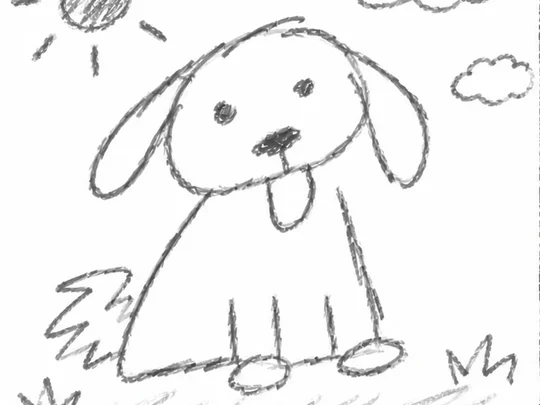
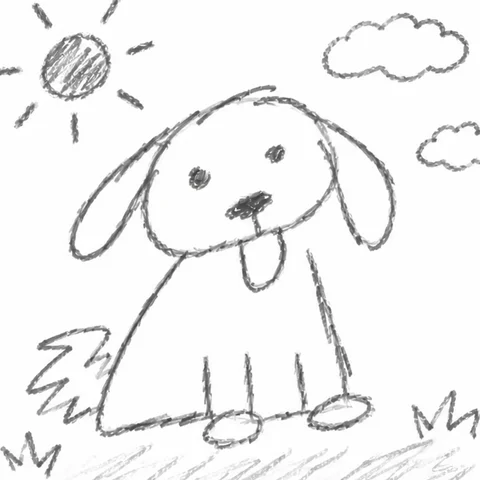
Robust-to card: square pictures with the tag on top, provided cat and car, larger heads, crossfade

diff --git a/index.html b/index.html
@@ -18,7 +18,7 @@
 <link rel="icon" href="assets/img/favicon.svg" type="image/svg+xml">
 <link rel="apple-touch-icon" href="assets/img/apple-touch-icon.png">
 <link rel="preload" href="assets/fonts/geist-latin-wght-normal.woff2" as="font" type="font/woff2" crossorigin>
-<link rel="stylesheet" href="assets/css/style.css?v=11">
+<link rel="stylesheet" href="assets/css/style.css?v=12">
 <script>
 (function () {
   var d = document.documentElement;
@@ -92,96 +92,74 @@
         <p class="map__title">Robust to</p>
         <svg class="sh-defs" width="0" height="0" aria-hidden="true" focusable="false">
           <defs>
-            <clipPath id="sh-clip"><rect x="3" y="3" width="114" height="84" rx="8"/></clipPath>
+            <clipPath id="sh-clip"><rect x="3" y="3" width="114" height="114" rx="10"/></clipPath>
             <filter id="sh-softblur" x="-20%" y="-20%" width="140%" height="140%"><feGaussianBlur stdDeviation="1.4"/></filter>
-            <!-- a cat face drawn in the same flat, thick-outlined style as the dog face -->
-            <symbol id="sh-cat" viewBox="0 0 100 64">
-              <g stroke="#5a2f0a" stroke-width="3.6" stroke-linejoin="round" stroke-linecap="round">
-                <path d="M21 30 17 4l25 12Z M79 30l4-26-25 12Z" style="fill: var(--fur)"/>
-                <ellipse cx="50" cy="38" rx="34" ry="24" style="fill: var(--fur)"/>
-              </g>
-              <path d="m23.5 22-2-12 11 6.5Z m53 0 2-12-11 6.5Z" fill="#f2a3a8" opacity=".85"/>
-              <ellipse cx="37" cy="35" rx="4.2" ry="5.6" style="fill: var(--eye, #5a2f0a)"/><ellipse cx="63" cy="35" rx="4.2" ry="5.6" style="fill: var(--eye, #5a2f0a)"/>
-              <ellipse cx="37" cy="35" rx="1.4" ry="4" style="fill: var(--pupil, transparent)"/><ellipse cx="63" cy="35" rx="1.4" ry="4" style="fill: var(--pupil, transparent)"/>
-              <path d="M46.5 42h7L50 46Z" fill="#e8798a"/>
-              <path d="M50 46c-1 3.6-5.6 4-7.4 1.4M50 46c1 3.6 5.6 4 7.4 1.4" fill="none" stroke="#5a2f0a" stroke-width="2.4" stroke-linecap="round"/>
-              <path d="M30 44 14 42M30 48l-15 4M70 44l16-2M70 48l15 4" style="stroke: var(--whisker, #5a2f0a)" stroke-width="1.6" stroke-linecap="round"/>
-            </symbol>
-            <symbol id="sh-car" viewBox="-1 -1 36 22">
-              <path d="M1 15v-3.4c0-1.6 1-2.6 2.6-2.9L8 7.8l3.6-3.6c.8-.8 1.8-1.2 2.9-1.2h6.6c1.2 0 2.3.5 3 1.4L27 7.8l3.4.9c1.4.4 2.6 1.6 2.6 3.1V15Z" fill="#e5484d" stroke="#5a2f0a" stroke-width="1.3" stroke-linejoin="round"/>
-              <path d="M10.6 7.8 13.6 4.9h4v2.9Zm9-2.9h1.9c.7 0 1.3.3 1.7.8l1.9 2.1h-5.5Z" fill="#d6ecff" stroke="#5a2f0a" stroke-width=".8" stroke-linejoin="round"/>
-              <circle cx="8.4" cy="15.4" r="3.3" fill="#2b2622" stroke="#5a2f0a" stroke-width="1"/><circle cx="8.4" cy="15.4" r="1.3" fill="#c4c9cf"/>
-              <circle cx="25.6" cy="15.4" r="3.3" fill="#2b2622" stroke="#5a2f0a" stroke-width="1"/><circle cx="25.6" cy="15.4" r="1.3" fill="#c4c9cf"/>
-            </symbol>
           </defs>
         </svg>
         <div class="shifts__card">
           <figure class="shift shift--domain is-on" id="shift-domain" role="tabpanel" aria-labelledby="shift-tab-domain">
             <div class="shift__art">
-              <svg viewBox="0 0 120 90" aria-hidden="true">
-            <g clip-path="url(#sh-clip)">
-              <g class="sh-a"><image href="assets/img/shifts/dog-source.webp" x="3" y="3" width="114" height="84" preserveAspectRatio="xMidYMid slice"/></g>
-              <g class="sh-b"><image href="assets/img/shifts/dog-sketch.webp" x="3" y="3" width="114" height="84" preserveAspectRatio="xMidYMid slice"/></g>
-            </g>
-                <rect class="sh-frame" x="3" y="3" width="114" height="84" rx="8"/>
-              </svg>
               <span class="shift__phase" aria-hidden="true"><span class="ph-a">Training</span><span class="ph-b">Shifted</span></span>
+              <svg viewBox="0 0 120 120" aria-hidden="true">
+            <g clip-path="url(#sh-clip)">
+              <g class="sh-a"><image href="assets/img/shifts/dog-source.webp" x="3" y="3" width="114" height="114" preserveAspectRatio="xMidYMid slice"/></g>
+              <g class="sh-b"><image href="assets/img/shifts/dog-sketch.webp" x="3" y="3" width="114" height="114" preserveAspectRatio="xMidYMid slice"/></g>
+            </g>
+                <rect class="sh-frame" x="3" y="3" width="114" height="114" rx="10"/>
+              </svg>
             </div>
             <figcaption><b>Domain shift</b><span>Trained on color drawings, tested on pencil sketches.</span></figcaption>
           </figure>
           <figure class="shift shift--corrupt" id="shift-corrupt" role="tabpanel" aria-labelledby="shift-tab-corrupt">
             <div class="shift__art">
-              <svg viewBox="0 0 120 90" aria-hidden="true">
-            <g clip-path="url(#sh-clip)">
-              <image href="assets/img/shifts/dog-source.webp" x="3" y="3" width="114" height="84" preserveAspectRatio="xMidYMid slice"/>
-              <g class="sh-b"><image href="assets/img/shifts/dog-noisy.webp" x="3" y="3" width="114" height="84" preserveAspectRatio="xMidYMid slice"/></g>
-            </g>
-                <rect class="sh-frame" x="3" y="3" width="114" height="84" rx="8"/>
-              </svg>
               <span class="shift__phase" aria-hidden="true"><span class="ph-a">Training</span><span class="ph-b">Shifted</span></span>
+              <svg viewBox="0 0 120 120" aria-hidden="true">
+            <g clip-path="url(#sh-clip)">
+              <image href="assets/img/shifts/dog-source.webp" x="3" y="3" width="114" height="114" preserveAspectRatio="xMidYMid slice"/>
+              <g class="sh-b"><image href="assets/img/shifts/dog-noisy.webp" x="3" y="3" width="114" height="114" preserveAspectRatio="xMidYMid slice"/></g>
+            </g>
+                <rect class="sh-frame" x="3" y="3" width="114" height="114" rx="10"/>
+              </svg>
             </div>
             <figcaption><b>Corruption</b><span>Noise and blur at test time.</span></figcaption>
           </figure>
           <figure class="shift shift--label" id="shift-label" role="tabpanel" aria-labelledby="shift-tab-label">
             <div class="shift__art">
-              <svg viewBox="0 0 120 90" aria-hidden="true">
-            <rect class="sh-bg" x="3" y="3" width="114" height="84" rx="8"/>
-            <g clip-path="url(#sh-clip)">
-              <g class="sl"><image href="assets/img/shifts/face-golden.webp" x="5.9" y="21.08" width="17" height="10.84"/></g>
-              <g class="sl sl--swap" style="--d:0.000s"><g class="sl-old"><image href="assets/img/shifts/face-red.webp" x="24.1" y="21.08" width="17" height="10.84"/></g><circle class="sl-burst" cx="32.6" cy="27.5" r="9"/><g class="sl-new"><use href="#sh-cat" x="24.1" y="21.06" width="17" height="10.88" style="--fur:#f2a552;--eye:#5a2f0a;--pupil:transparent;--whisker:#5a2f0a"/></g></g>
-              <g class="sl sl--swap" style="--d:0.300s"><g class="sl-old"><image href="assets/img/shifts/face-choc.webp" x="42.3" y="21.08" width="17" height="10.84"/></g><circle class="sl-burst" cx="50.8" cy="27.5" r="9"/><g class="sl-new"><use href="#sh-cat" x="42.3" y="21.06" width="17" height="10.88" style="--fur:#b9bbc0;--eye:#5a2f0a;--pupil:transparent;--whisker:#5a2f0a"/></g></g>
-              <g class="sl sl--swap" style="--d:0.150s"><g class="sl-old"><image href="assets/img/shifts/face-cream.webp" x="60.49999999999999" y="21.08" width="17" height="10.84"/></g><circle class="sl-burst" cx="69.0" cy="27.5" r="9"/><g class="sl-new"><use href="#sh-cat" x="60.49999999999999" y="21.06" width="17" height="10.88" style="--fur:#46484e;--eye:#f1d45a;--pupil:#2a2522;--whisker:#d8d2c8"/></g></g>
-              <g class="sl sl--swap" style="--d:0.450s"><g class="sl-old"><image href="assets/img/shifts/face-golden.webp" x="78.7" y="21.08" width="17" height="10.84"/></g><circle class="sl-burst" cx="87.2" cy="27.5" r="9"/><g class="sl-new"><use href="#sh-cat" x="78.7" y="21.06" width="17" height="10.88" style="--fur:#f7f3ec;--eye:#5a2f0a;--pupil:transparent;--whisker:#5a2f0a"/></g></g>
-              <g class="sl"><use href="#sh-cat" x="96.9" y="21.06" width="17" height="10.88" style="--fur:#b9bbc0;--eye:#5a2f0a;--pupil:transparent;--whisker:#5a2f0a"/></g>
-              <g class="sl"><image href="assets/img/shifts/face-red.webp" x="5.9" y="57.08" width="17" height="10.84"/></g>
-              <g class="sl sl--swap" style="--d:0.525s"><g class="sl-old"><image href="assets/img/shifts/face-grey.webp" x="24.1" y="57.08" width="17" height="10.84"/></g><circle class="sl-burst" cx="32.6" cy="63.5" r="9"/><g class="sl-new"><use href="#sh-cat" x="24.1" y="57.06" width="17" height="10.88" style="--fur:#f7f3ec;--eye:#5a2f0a;--pupil:transparent;--whisker:#5a2f0a"/></g></g>
-              <g class="sl sl--swap" style="--d:0.075s"><g class="sl-old"><image href="assets/img/shifts/face-golden.webp" x="42.3" y="57.08" width="17" height="10.84"/></g><circle class="sl-burst" cx="50.8" cy="63.5" r="9"/><g class="sl-new"><use href="#sh-cat" x="42.3" y="57.06" width="17" height="10.88" style="--fur:#f2a552;--eye:#5a2f0a;--pupil:transparent;--whisker:#5a2f0a"/></g></g>
-              <g class="sl sl--swap" style="--d:0.375s"><g class="sl-old"><image href="assets/img/shifts/face-choc.webp" x="60.49999999999999" y="57.08" width="17" height="10.84"/></g><circle class="sl-burst" cx="69.0" cy="63.5" r="9"/><g class="sl-new"><use href="#sh-cat" x="60.49999999999999" y="57.06" width="17" height="10.88" style="--fur:#b9bbc0;--eye:#5a2f0a;--pupil:transparent;--whisker:#5a2f0a"/></g></g>
-              <g class="sl sl--swap" style="--d:0.225s"><g class="sl-old"><image href="assets/img/shifts/face-cream.webp" x="78.7" y="57.08" width="17" height="10.84"/></g><circle class="sl-burst" cx="87.2" cy="63.5" r="9"/><g class="sl-new"><use href="#sh-cat" x="78.7" y="57.06" width="17" height="10.88" style="--fur:#46484e;--eye:#f1d45a;--pupil:#2a2522;--whisker:#d8d2c8"/></g></g>
-              <g class="sl"><use href="#sh-cat" x="96.9" y="57.06" width="17" height="10.88" style="--fur:#f2a552;--eye:#5a2f0a;--pupil:transparent;--whisker:#5a2f0a"/></g>
-            </g>
-                <rect class="sh-frame" x="3" y="3" width="114" height="84" rx="8"/>
-              </svg>
               <span class="shift__phase" aria-hidden="true"><span class="ph-a">Training</span><span class="ph-b">Shifted</span></span>
+              <svg viewBox="0 0 120 120" aria-hidden="true">
+            <rect class="sh-bg" x="3" y="3" width="114" height="114" rx="10"/>
+            <g clip-path="url(#sh-clip)">
+              <g class="sl"><image href="assets/img/shifts/face-golden.webp" x="6" y="13.16" width="34" height="21.67"/></g>
+              <g class="sl sl--swap" style="--d:0.000s"><g class="sl-old"><image href="assets/img/shifts/face-red.webp" x="42" y="13.16" width="34" height="21.67"/></g><circle class="sl-burst" cx="59.0" cy="24.0" r="17"/><g class="sl-new"><image href="assets/img/shifts/cat-tabby.webp" x="45.40" y="11.51" width="27.20" height="24.98"/></g></g>
+              <g class="sl sl--swap" style="--d:0.300s"><g class="sl-old"><image href="assets/img/shifts/face-choc.webp" x="78" y="13.16" width="34" height="21.67"/></g><circle class="sl-burst" cx="95.0" cy="24.0" r="17"/><g class="sl-new"><image href="assets/img/shifts/cat-black.webp" x="81.40" y="11.51" width="27.20" height="24.98"/></g></g>
+              <g class="sl sl--swap" style="--d:0.150s"><g class="sl-old"><image href="assets/img/shifts/face-cream.webp" x="6" y="49.16" width="34" height="21.67"/></g><circle class="sl-burst" cx="23.0" cy="60.0" r="17"/><g class="sl-new"><image href="assets/img/shifts/cat-white.webp" x="9.40" y="47.51" width="27.20" height="24.98"/></g></g>
+              <g class="sl"><image href="assets/img/shifts/cat-grey.webp" x="45.40" y="47.51" width="27.20" height="24.98"/></g>
+              <g class="sl sl--swap" style="--d:0.075s"><g class="sl-old"><image href="assets/img/shifts/face-golden.webp" x="78" y="49.16" width="34" height="21.67"/></g><circle class="sl-burst" cx="95.0" cy="60.0" r="17"/><g class="sl-new"><image href="assets/img/shifts/cat-tabby.webp" x="81.40" y="47.51" width="27.20" height="24.98"/></g></g>
+              <g class="sl sl--swap" style="--d:0.225s"><g class="sl-old"><image href="assets/img/shifts/face-grey.webp" x="6" y="85.16" width="34" height="21.67"/></g><circle class="sl-burst" cx="23.0" cy="96.0" r="17"/><g class="sl-new"><image href="assets/img/shifts/cat-black.webp" x="9.40" y="83.51" width="27.20" height="24.98"/></g></g>
+              <g class="sl"><image href="assets/img/shifts/face-red.webp" x="42" y="85.16" width="34" height="21.67"/></g>
+              <g class="sl"><image href="assets/img/shifts/cat-tabby.webp" x="81.40" y="83.51" width="27.20" height="24.98"/></g>
+            </g>
+                <rect class="sh-frame" x="3" y="3" width="114" height="114" rx="10"/>
+              </svg>
             </div>
             <figcaption><b>Label shift</b><span>The class mix changes after training.</span></figcaption>
           </figure>
           <figure class="shift shift--open" id="shift-open" role="tabpanel" aria-labelledby="shift-tab-open">
             <div class="shift__art">
-              <svg viewBox="0 0 120 90" aria-hidden="true">
-            <rect class="sh-bg" x="3" y="3" width="114" height="84" rx="8"/>
+              <span class="shift__phase" aria-hidden="true"><span class="ph-a">Training</span><span class="ph-b">Shifted</span></span>
+              <svg viewBox="0 0 120 120" aria-hidden="true">
+            <rect class="sh-bg" x="3" y="3" width="114" height="114" rx="10"/>
             <g clip-path="url(#sh-clip)">
-              <image href="assets/img/shifts/face-golden.webp" x="10" y="37.53" width="25" height="15.94"/><rect class="sh-box" x="8" y="31" width="29" height="27" rx="2.5"/>
-              <use href="#sh-cat" x="43" y="37.50" width="25" height="16.00" style="--fur:#46484e;--eye:#f1d45a;--pupil:#2a2522;--whisker:#d8d2c8"/><rect class="sh-box" x="41" y="31" width="29" height="27" rx="2.5"/>
+              <image href="assets/img/shifts/face-golden.webp" x="12" y="21.25" width="40" height="25.50"/><rect class="sh-box" x="10" y="12" width="44" height="44" rx="3"/>
+              <image href="assets/img/shifts/cat-grey.webp" x="70.00" y="19.30" width="32.00" height="29.39"/><rect class="sh-box" x="64" y="12" width="44" height="44" rx="3"/>
               <g class="sh-new">
-                <use href="#sh-car" x="76" y="34" width="34" height="21"/>
-                <rect class="sh-box sh-box--new" x="74" y="29" width="38" height="31" rx="2.5"/>
-                <g class="sh-q"><circle cx="106" cy="25" r="7"/><text x="106" y="28.6">?</text></g>
+                <image href="assets/img/shifts/car.webp" x="40" y="68" width="40" height="33"/>
+                <rect class="sh-box sh-box--new" x="33" y="63" width="54" height="44" rx="3"/>
+                <g class="sh-q"><circle cx="86" cy="64" r="8"/><text x="86" y="68.2">?</text></g>
               </g>
             </g>
-                <rect class="sh-frame" x="3" y="3" width="114" height="84" rx="8"/>
+                <rect class="sh-frame" x="3" y="3" width="114" height="114" rx="10"/>
               </svg>
-              <span class="shift__phase" aria-hidden="true"><span class="ph-a">Training</span><span class="ph-b">Shifted</span></span>
             </div>
             <figcaption><b>New classes</b><span>Objects never seen in training.</span></figcaption>
           </figure>
@@ -609,6 +587,6 @@
   </main>
 </div>
 
-<script src="assets/js/site.js?v=11" defer></script>
+<script src="assets/js/site.js?v=12" defer></script>
 </body>
 </html>

diff --git a/assets/css/style.css b/assets/css/style.css
@@ -218,7 +218,7 @@ html[data-lens] .map__theme:not(.is-on) { opacity: .5; }
 .shifts__card { display: grid; border: 1px solid var(--line); border-radius: 1rem; background: var(--surface); }
 /* scenes and the overview share one cell, so the card keeps one height while they swap */
 .shift, .shifts__all { grid-area: 1 / 1; visibility: hidden; opacity: 0; transition: opacity .35s ease, visibility 0s .35s; }
-.shift { display: grid; grid-template-columns: 8.4rem minmax(0, 1fr); align-items: center; gap: .3rem .85rem; padding: .55rem .9rem .55rem .55rem; }
+.shift { display: grid; grid-template-columns: 7.6rem minmax(0, 1fr); align-items: center; gap: .3rem .85rem; padding: .55rem .9rem .55rem .55rem; }
 .shift.is-on, .shifts__all.is-on { visibility: visible; opacity: 1; transition: opacity .35s ease, visibility 0s; }
 .no-js .shift:first-child { visibility: visible; opacity: 1; }
 .shifts__all { display: grid; grid-template-columns: repeat(4, minmax(0, 1fr)); align-items: center; gap: .3rem; padding: .5rem .45rem; }
@@ -240,8 +240,8 @@ html[data-lens] .map__theme:not(.is-on) { opacity: .5; }
 .ov-arrow { fill: none; stroke: var(--muted); stroke-width: 1.3; stroke-linecap: round; stroke-linejoin: round; }
 .shift__art { display: grid; justify-items: center; gap: .35rem; }
 .shift__art svg { width: 100%; height: auto; display: block; overflow: visible; }
-.shift__phase { position: relative; display: grid; font: 650 .74rem/1 var(--font-body); letter-spacing: .01em; }
-.shift__phase > span { grid-area: 1 / 1; justify-self: center; padding: .2rem .55rem; border-radius: 999px; }
+.shift__phase { position: relative; display: grid; justify-self: start; font: 650 .74rem/1 var(--font-body); letter-spacing: .01em; }
+.shift__phase > span { grid-area: 1 / 1; justify-self: start; padding: .2rem .55rem; border-radius: 999px; }
 .ph-a { color: var(--train); background: color-mix(in srgb, var(--train) 12%, transparent); opacity: 0; }
 .ph-b { color: var(--shift); background: color-mix(in srgb, var(--shift) 12%, transparent); }
 .shift figcaption b { display: block; font-size: .95rem; font-weight: 620; letter-spacing: -.015em; }
@@ -261,20 +261,20 @@ html[data-lens] .map__theme:not(.is-on) { opacity: .5; }
 .sh-box { fill: none; stroke: var(--ink-2); stroke-width: 1; opacity: .7; }
 .sh-box--new { stroke: var(--shift); stroke-width: 1.4; stroke-dasharray: 3.2 2.2; opacity: 1; }
 .sh-q circle { fill: var(--shift); }
-.sh-q text { fill: #fff; font: 800 10px/1 var(--font-body); text-anchor: middle; }
+.sh-q text { fill: #fff; font: 800 11px/1 var(--font-body); text-anchor: middle; }
 .sl-burst { fill: none; stroke: var(--shift); stroke-width: 1.2; opacity: 0; }
 .sh-a, .sh-b, .sh-new, .sl-old, .sl-new, .sl-burst { transform-box: fill-box; transform-origin: center; }
 
 /* end states */
-.shift--domain .sh-a { opacity: 0; transform: translateX(-40px); }
+.shift--domain .sh-a { opacity: 0; }
 .sl-old { opacity: 0; transform: scale(0); }
 
 /* motion, only in the scene that is on */
 .shift.is-on .sh-frame { animation: sh-frame var(--sh-dur) var(--sh-delay) cubic-bezier(.65, 0, .35, 1) both; }
-.shift.is-on .ph-a { animation: sh-fade-out calc(var(--sh-dur) * .5) calc(var(--sh-delay) + var(--sh-dur) * .35) ease both; }
-.shift.is-on .ph-b { animation: sh-fade-in calc(var(--sh-dur) * .5) calc(var(--sh-delay) + var(--sh-dur) * .35) ease both; }
-.shift--domain.is-on .sh-a { animation: sh-slide-out var(--sh-dur) var(--sh-delay) cubic-bezier(.65, 0, .35, 1) both; }
-.shift--domain.is-on .sh-b { animation: sh-slide-in var(--sh-dur) var(--sh-delay) cubic-bezier(.65, 0, .35, 1) both; }
+.shift.is-on .ph-a { animation: sh-fade-out calc(var(--sh-dur) * .2) calc(var(--sh-delay) + var(--sh-dur) * .4) ease both; }
+.shift.is-on .ph-b { animation: sh-fade-in calc(var(--sh-dur) * .2) calc(var(--sh-delay) + var(--sh-dur) * .5) ease both; }
+.shift--domain.is-on .sh-a { animation: sh-fade-out var(--sh-dur) var(--sh-delay) ease-in-out both; }
+.shift--domain.is-on .sh-b { animation: sh-fade-in var(--sh-dur) var(--sh-delay) ease-in-out both; }
 .shift--corrupt.is-on .sh-b { animation: sh-fade-in var(--sh-dur) var(--sh-delay) ease-in-out both; }
 .shift--label.is-on .sl-old { animation: sh-pop-out .32s calc(var(--sh-delay) + var(--d)) ease-in both; }
 .shift--label.is-on .sl-burst { animation: sh-burst .45s calc(var(--sh-delay) + var(--d) + .22s) ease-out both; }
@@ -497,7 +497,7 @@ html[data-lens] .map__theme:not(.is-on) { opacity: .5; }
 }
 @media (min-width: 64.01rem) and (max-height: 66rem) {
   .side__inner { gap: 1.05rem; }
-  .shift { grid-template-columns: 7rem minmax(0, 1fr); padding-block: .4rem; }
+  .shift { grid-template-columns: 6.4rem minmax(0, 1fr); padding-block: .4rem; }
   .shift__art { gap: .25rem; }
   .shifts__tabs { margin-top: .3rem; }
 }
